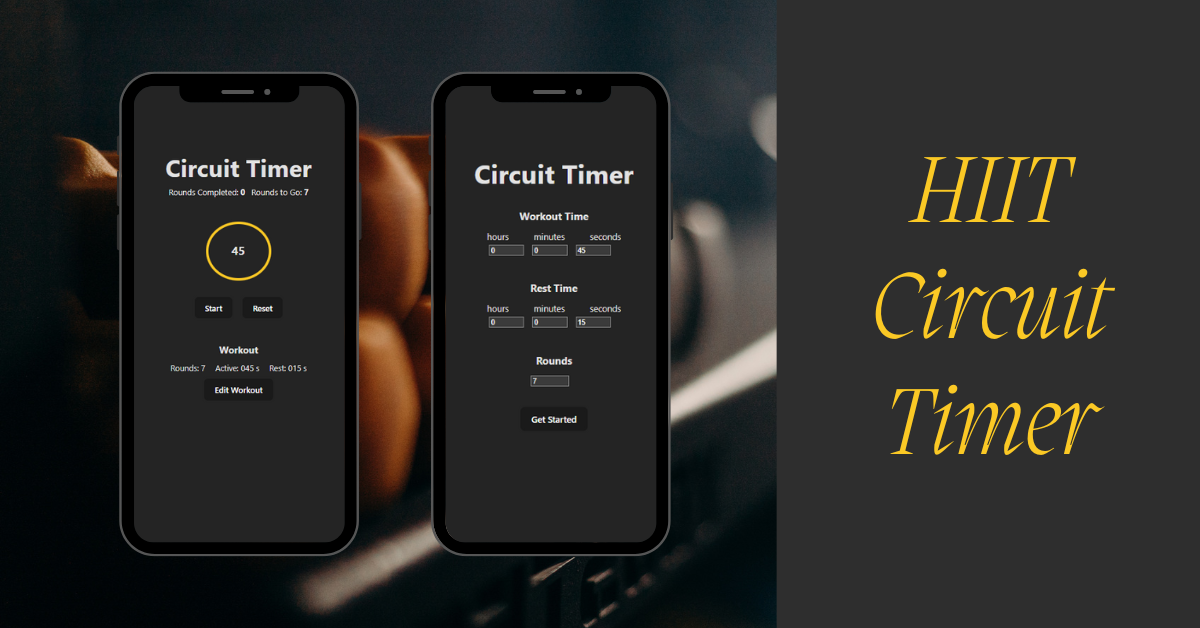
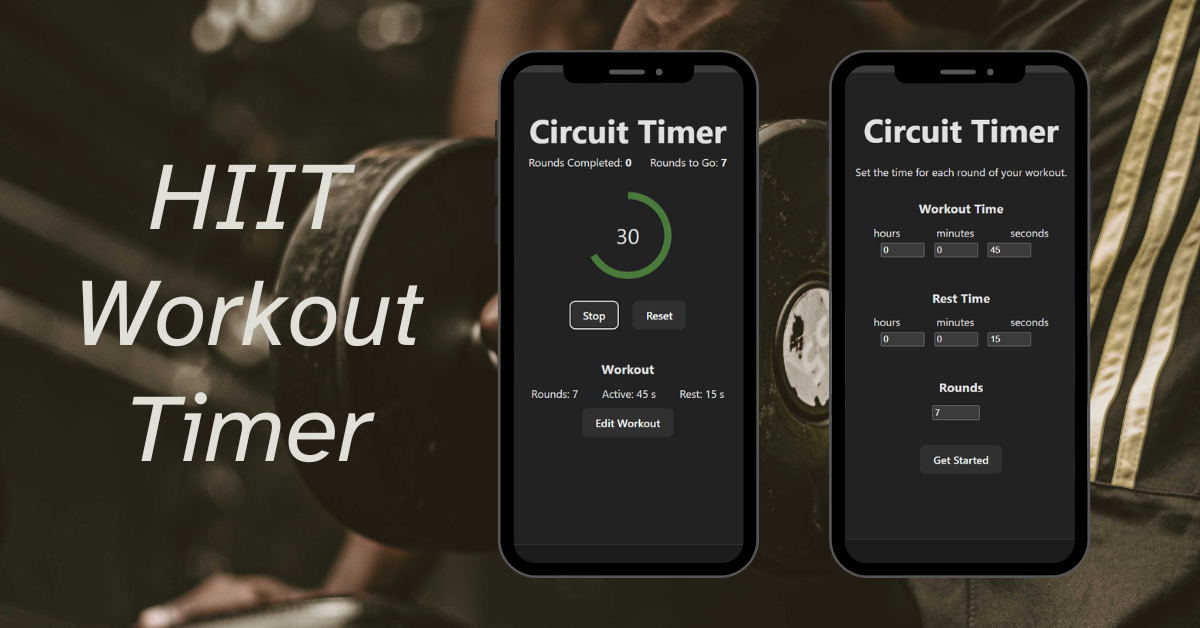
Change circuit timer cover image and add link to the live app.

diff --git a/src/components/portfolio.js b/src/components/portfolio.js
@@ -149,7 +149,7 @@ const Portfolio = () => {
                 </p>
                 <div className="project-links d-flex">
                   <a href="https://github.com/kellysdev/circuit-timer" className="btn btn-outline-info" target="_blank" rel="noreferrer">GitHub Repo</a>
-                  {/* <a href=`${process.env.REACT_APP_S3_TIMER_BUCKET}` className="btn btn-outline-info" target="_blank" rel="noreferrer">Live App</a> */}
+                  <a href={`${process.env.REACT_APP_S3_TIMER_BUCKET}`} className="btn btn-outline-info" target="_blank" rel="noreferrer">Live App</a>
                   <a href="/circuit-timer-casestudy"  className="btn btn-outline-info" >Case Study</a>
                 </div>
               </Col>
